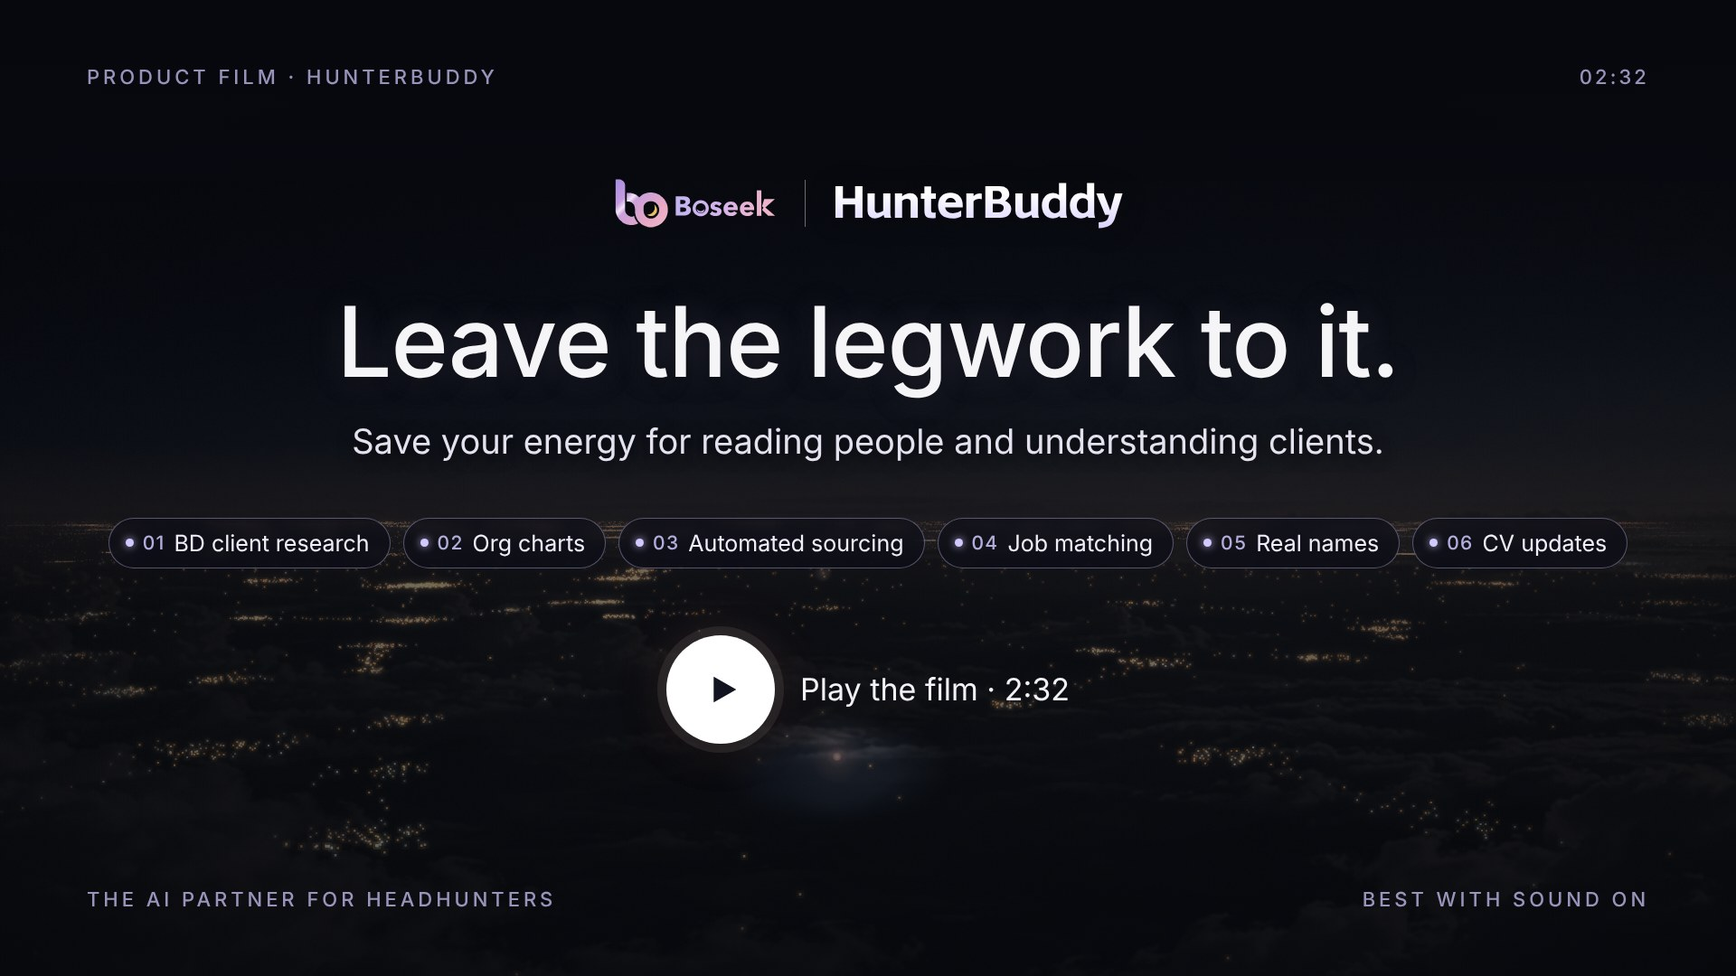
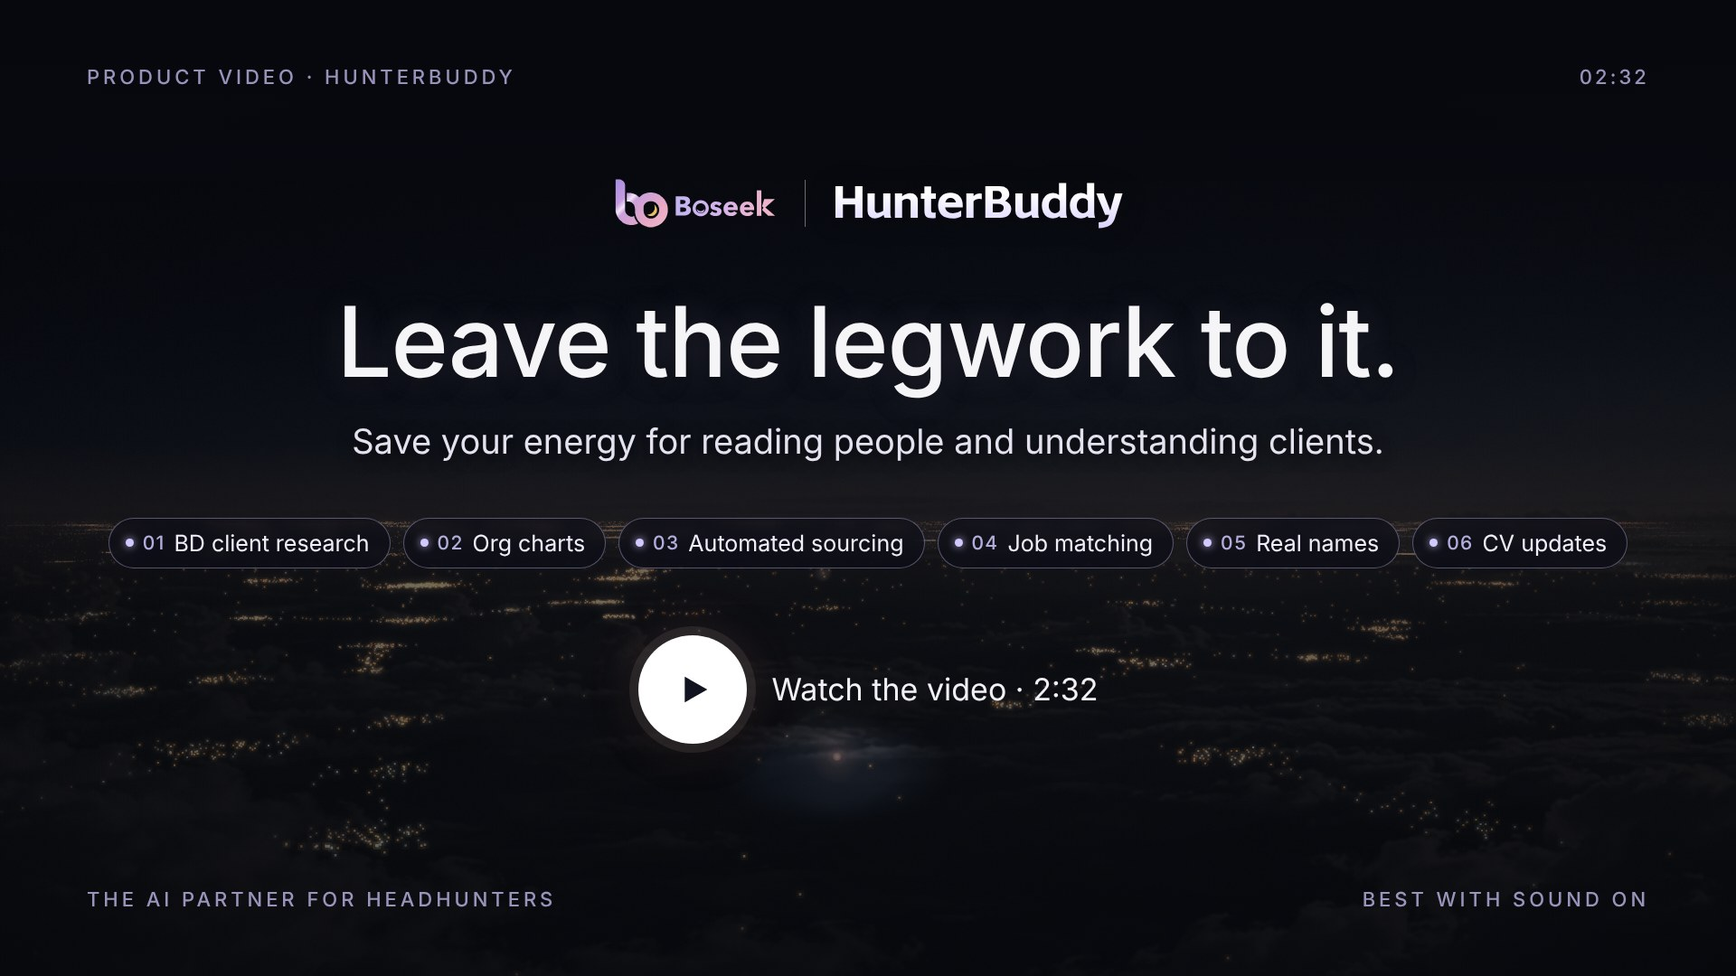
英文“短片”统一译作 video；首页标题跟随新文案；英文步骤标签 Assess 改为 Know；短片读屏标签时长更正
- 英文：导航、页脚、读屏标签、视频结构化数据、两篇文章里的 product film 改为 product video；英文封面重拍
  （PRODUCT VIDEO · HUNTERBUDDY、Watch the video · 2:32），film-poster-en.jpg ?v=6
- 浏览器标签页标题：中文“猎头 AI 助手：人岗匹配、人才寻访、组织架构梳理”，英文
  “AI assistant for headhunters: matching, sourcing, org charts”（og:title 同步）
- 六件事的步骤标签：英文 Find · Know · Keep（不再用 Assess：它不评判人）
- redesign.js：播放按钮读屏标签的时长 2 分 22 秒改为 2 分 32 秒（?v=23）；术语表补充

Claude-Session: https://claude.ai/code/session_01NjZfRSbJ5dBR6i78M69BFX

Changed region(s): [[0.3438, 0.6417, 0.625, 0.7639], [0.125, 0.0611, 0.2812, 0.0917]]

diff --git a/public/landing-redesign/en/index.html b/public/landing-redesign/en/index.html
@@ -6,7 +6,7 @@
     <meta name="theme-color" content="#0f1011" />
     <!-- Redesign draft: preview only, not indexed -->
     <meta name="robots" content="noindex" />
-    <title>HunterBuddy · AI assistant for headhunters: org charts and sourcing | Boseek</title>
+    <title>HunterBuddy · AI assistant for headhunters: matching, sourcing, org charts | Boseek</title>
     <meta
       name="description"
       content="HunterBuddy by Boseek is an AI assistant for independent headhunters and senior search consultants. It helps with job matching, sourcing, identity checks, BD client research, CV database updates and org charts, so you can focus on people and clients."
@@ -18,7 +18,7 @@
     <link rel="alternate" hreflang="x-default" href="https://www.boseekai.com/" />
     <meta property="og:type" content="website" />
     <meta property="og:site_name" content="Boseek" />
-    <meta property="og:title" content="HunterBuddy · AI assistant for headhunters: org charts and sourcing" />
+    <meta property="og:title" content="HunterBuddy · AI assistant for headhunters: matching, sourcing, org charts" />
     <meta property="og:description" content="HunterBuddy by Boseek is an AI assistant for independent headhunters and senior search consultants. It helps with job matching, sourcing, identity checks, BD client research, CV database updates and org charts, so you can focus on people and clients." />
     <meta property="og:url" content="https://www.boseekai.com/en/" />
     <meta property="og:image" content="https://www.boseekai.com/assets/film-poster-en.jpg" />
@@ -79,7 +79,7 @@
             "@type": "WebPage",
             "@id": "https://www.boseekai.com/en/#webpage",
             "url": "https://www.boseekai.com/en/",
-            "name": "HunterBuddy · AI assistant for headhunters: org charts and sourcing | Boseek",
+            "name": "HunterBuddy · AI assistant for headhunters: matching, sourcing, org charts | Boseek",
             "description": "HunterBuddy by Boseek is an AI assistant for independent headhunters and senior search consultants. It helps with job matching, sourcing, identity checks, BD client research, CV database updates and org charts, so you can focus on people and clients.",
             "inLanguage": "en",
             "isPartOf": {
@@ -122,7 +122,7 @@
           {
             "@type": "VideoObject",
             "@id": "https://www.boseekai.com/en/#film",
-            "name": "HunterBuddy product film",
+            "name": "HunterBuddy product video",
             "description": "From one role in a sea of people, follow HunterBuddy through six jobs: BD client research, org mapping, automated sourcing, job matching, finding the real name, and keeping CVs current.",
             "thumbnailUrl": "https://www.boseekai.com/assets/film-poster-en.jpg",
             "contentUrl": "https://www.boseekai.com/assets/hunterbuddy-film-en.mp4",
@@ -231,7 +231,7 @@
     <script defer src="../../landing/vendor/libphonenumber-max.js?v=20261021"></script>
     <script defer src="../../landing/trial-form.js?v=20261022-bilingual-a"></script>
     <script defer src="../vendor/lenis-1.3.4.min.js"></script>
-    <script defer src="../redesign.js?v=22"></script>
+    <script defer src="../redesign.js?v=23"></script>
   </head>
   <body class="n-page">
     <a class="n-skip" href="#main">Skip to content</a>
@@ -242,7 +242,7 @@
           <img src="../../landing-origin/assets/boseek-b5-en.svg" alt="Boseek" width="150" height="48" />
         </a>
         <nav class="n-nav" id="n-nav" aria-label="Main navigation">
-          <a href="#film">Product film</a>
+          <a href="#film">Product video</a>
           <a href="#capabilities">What it does</a>
           <a href="#belief">Boundaries</a>
           <a href="#industries">Sectors</a>
@@ -300,9 +300,9 @@
               controls
               preload="none"
               playsinline
-              poster="../assets/film-poster-en.jpg?v=5"
+              poster="../assets/film-poster-en.jpg?v=6"
               src="../assets/hunterbuddy-film-en.mp4?v=5"
-              aria-label="HunterBuddy product film"
+              aria-label="HunterBuddy product video"
             ></video>
           </figure>
         </div>
@@ -419,7 +419,7 @@
                 </div>
               </div>
               <div class="n-step-text">
-                <p class="n-step-meta"><i>Assess</i><span>03 / 06</span></p>
+                <p class="n-step-meta"><i>Know</i><span>03 / 06</span></p>
                 <p class="n-pain">All you have is a workplace alias or a user ID. Working out who the person really is can take hours of guesswork.</p>
                 <h3 id="n-step-identity">Find the real name behind an alias</h3>
                 <p>Even with only an alias, a pen name or a nickname, HunterBuddy cross-checks several sources, rules out namesakes and establishes the candidate’s real name and identity. It then follows their career and connections to related candidates and suggests a suitable way to reach them. Anything it isn’t sure of is flagged for you to confirm.</p>
@@ -446,7 +446,7 @@
                 </div>
               </div>
               <div class="n-step-text">
-                <p class="n-step-meta"><i>Assess</i><span>04 / 06</span></p>
+                <p class="n-step-meta"><i>Know</i><span>04 / 06</span></p>
                 <p class="n-pain">Some clients have plenty of openings, and only once you follow up do you find that the need, the budget or the decision chain isn’t ready.</p>
                 <h3 id="n-step-bd">BD client research: know before you go</h3>
                 <p>HunterBuddy pulls together the industry outlook, funding news, the founding team, and hiring and business signals, helping you judge the real need, the ability to pay and the risk in working with them. It then lays out the decision chain and priorities to inform your next approach. Fewer wasted trips, and more energy for the opportunities that deserve it.</p>
@@ -616,7 +616,7 @@
             <div>
               <h2>Product</h2>
               <ul>
-                <li><a href="#film">Product film</a></li>
+                <li><a href="#film">Product video</a></li>
                 <li><a href="#capabilities">What it does</a></li>
                 <li><a href="#belief">Boundaries</a></li>
                 <li><a href="#industries">Sectors</a></li>

diff --git a/public/landing-redesign/index.html b/public/landing-redesign/index.html
@@ -6,7 +6,7 @@
     <meta name="theme-color" content="#0f1011" />
     <!-- 改版草稿：只用于预览，不收录 -->
     <meta name="robots" content="noindex" />
-    <title>HunterBuddy · 猎头 AI 助手，梳理组织架构、做人才寻访｜铂寻 Boseek</title>
+    <title>HunterBuddy · 猎头 AI 助手：人岗匹配、人才寻访、组织架构梳理｜铂寻 Boseek</title>
     <meta
       name="description"
       content="HunterBuddy 是铂寻 Boseek 为独立猎头和资深顾问打造的猎头 AI 助手。人岗匹配、自动寻访、定位真实姓名、BD 客户研判、简历库更新、组织架构梳理，费时间的事交给它，你把心力留给识人和读懂客户。"
@@ -18,7 +18,7 @@
     <link rel="alternate" hreflang="x-default" href="https://www.boseekai.com/" />
     <meta property="og:type" content="website" />
     <meta property="og:site_name" content="铂寻 Boseek" />
-    <meta property="og:title" content="HunterBuddy · 猎头 AI 助手，梳理组织架构、做人才寻访" />
+    <meta property="og:title" content="HunterBuddy · 猎头 AI 助手：人岗匹配、人才寻访、组织架构梳理" />
     <meta property="og:description" content="HunterBuddy 是铂寻 Boseek 为独立猎头和资深顾问打造的猎头 AI 助手。人岗匹配、自动寻访、定位真实姓名、BD 客户研判、简历库更新、组织架构梳理，费时间的事交给它，你把心力留给识人和读懂客户。" />
     <meta property="og:url" content="https://www.boseekai.com/" />
     <meta property="og:image" content="https://www.boseekai.com/assets/film-poster.jpg" />
@@ -81,7 +81,7 @@
             "@type": "WebPage",
             "@id": "https://www.boseekai.com/#webpage",
             "url": "https://www.boseekai.com/",
-            "name": "HunterBuddy · 猎头 AI 助手，梳理组织架构、做人才寻访｜铂寻 Boseek",
+            "name": "HunterBuddy · 猎头 AI 助手：人岗匹配、人才寻访、组织架构梳理｜铂寻 Boseek",
             "description": "HunterBuddy 是铂寻 Boseek 为独立猎头和资深顾问打造的猎头 AI 助手。人岗匹配、自动寻访、定位真实姓名、BD 客户研判、简历库更新、组织架构梳理，费时间的事交给它，你把心力留给识人和读懂客户。",
             "inLanguage": "zh-CN",
             "isPartOf": {
@@ -231,7 +231,7 @@
     <script defer src="../landing/vendor/libphonenumber-max.js?v=20261021"></script>
     <script defer src="../landing/trial-form.js?v=20261022-bilingual-a"></script>
     <script defer src="vendor/lenis-1.3.4.min.js"></script>
-    <script defer src="redesign.js?v=22"></script>
+    <script defer src="redesign.js?v=23"></script>
   </head>
   <body class="n-page">
     <a class="n-skip" href="#main">跳到正文</a>
@@ -300,7 +300,7 @@
               controls
               preload="none"
               playsinline
-              poster="assets/film-poster.jpg?v=8"
+              poster="assets/film-poster.jpg?v=9"
               src="assets/hunterbuddy-film.mp4?v=8"
               aria-label="HunterBuddy 产品短片"
             ></video>

diff --git a/public/landing-redesign/en/use-cases/talent-pool/index.html b/public/landing-redesign/en/use-cases/talent-pool/index.html
@@ -172,7 +172,7 @@
           <img src="../../../../landing-origin/assets/boseek-b5-en.svg" alt="Boseek" width="150" height="48" />
         </a>
         <nav class="n-nav" id="n-nav" aria-label="Main navigation">
-          <a href="../../#film">Product film</a>
+          <a href="../../#film">Product video</a>
           <a href="../../#capabilities">What it does</a>
           <a href="../../#belief">Boundaries</a>
           <a href="../../#industries">Sectors</a>
@@ -311,7 +311,7 @@
           <div class="n-wrap"><div class="s-col">
             <p class="s-label">05</p>
             <h2 id="s5-t">How can HunterBuddy help manage your CV database?</h2>
-            <p class="s-p">HunterBuddy is an AI assistant for headhunters, built by Boseek for independent headhunters and senior search consultants, and keeping your CV database current is one of the things it does. To show how, here’s the Xingchuan Robotics story from our homepage and product film, in which Yue Lin is the candidate.</p>
+            <p class="s-p">HunterBuddy is an AI assistant for headhunters, built by Boseek for independent headhunters and senior search consultants, and keeping your CV database current is one of the things it does. To show how, here’s the Xingchuan Robotics story from our homepage and product video, in which Yue Lin is the candidate.</p>
             <ul class="s-list">
               <li>Upload CVs one at a time or in bulk. Everything you bring in goes through identity checks and is de-duplicated and merged, and can also be matched against all your live searches.</li>
               <li>When one person is scattered across different sources, it checks before merging. Yue Lin, for example, has one record each in your CV database, on a team page and in a paper, and they end up as one person.</li>
@@ -414,7 +414,7 @@
             <div>
               <h2>Product</h2>
               <ul>
-                <li><a href="../../#film">Product film</a></li>
+                <li><a href="../../#film">Product video</a></li>
                 <li><a href="../../#capabilities">What it does</a></li>
                 <li><a href="../../#belief">Boundaries</a></li>
                 <li><a href="../../#industries">Sectors</a></li>

diff --git a/public/landing-redesign/en/use-cases/org-chart/index.html b/public/landing-redesign/en/use-cases/org-chart/index.html
@@ -172,7 +172,7 @@
           <img src="../../../../landing-origin/assets/boseek-b5-en.svg" alt="Boseek" width="150" height="48" />
         </a>
         <nav class="n-nav" id="n-nav" aria-label="Main navigation">
-          <a href="../../#film">Product film</a>
+          <a href="../../#film">Product video</a>
           <a href="../../#capabilities">What it does</a>
           <a href="../../#belief">Boundaries</a>
           <a href="../../#industries">Sectors</a>
@@ -322,7 +322,7 @@
           <div class="n-wrap"><div class="s-col">
             <p class="s-label">05</p>
             <h2 id="s5-t">How can HunterBuddy help you map a target company with AI?</h2>
-            <p class="s-p">HunterBuddy is an AI assistant for headhunters, built by Boseek for independent headhunters and senior search consultants. Here is the example from our homepage and product film: say you want to map Xingchuan Robotics alongside two peer companies, Tuojie Robotics and Qiongding AI.</p>
+            <p class="s-p">HunterBuddy is an AI assistant for headhunters, built by Boseek for independent headhunters and senior search consultants. Here is the example from our homepage and product video: say you want to map Xingchuan Robotics alongside two peer companies, Tuojie Robotics and Qiongding AI.</p>
             <ul class="s-list">
               <li>Tell it which companies and teams to look at. It finds departments and reporting lines in public information, puts people in the right positions and notes where each piece of information came from.</li>
               <li>When a lead comes from a paper’s authors or a patent’s inventors, it is flagged as still needing an identity and employment check, and co-authoring a paper is not taken as a reporting line.</li>
@@ -418,7 +418,7 @@
             <div>
               <h2>Product</h2>
               <ul>
-                <li><a href="../../#film">Product film</a></li>
+                <li><a href="../../#film">Product video</a></li>
                 <li><a href="../../#capabilities">What it does</a></li>
                 <li><a href="../../#belief">Boundaries</a></li>
                 <li><a href="../../#industries">Sectors</a></li>

diff --git a/public/landing-redesign/en/use-cases/ai-assistant-for-headhunters/index.html b/public/landing-redesign/en/use-cases/ai-assistant-for-headhunters/index.html
@@ -172,7 +172,7 @@
           <img src="../../../../landing-origin/assets/boseek-b5-en.svg" alt="Boseek" width="150" height="48" />
         </a>
         <nav class="n-nav" id="n-nav" aria-label="Main navigation">
-          <a href="../../#film">Product film</a>
+          <a href="../../#film">Product video</a>
           <a href="../../#capabilities">What it does</a>
           <a href="../../#belief">Boundaries</a>
           <a href="../../#industries">Sectors</a>
@@ -401,7 +401,7 @@
             <div>
               <h2>Product</h2>
               <ul>
-                <li><a href="../../#film">Product film</a></li>
+                <li><a href="../../#film">Product video</a></li>
                 <li><a href="../../#capabilities">What it does</a></li>
                 <li><a href="../../#belief">Boundaries</a></li>
                 <li><a href="../../#industries">Sectors</a></li>

diff --git a/public/landing-redesign/en/use-cases/ai-tools-compared/index.html b/public/landing-redesign/en/use-cases/ai-tools-compared/index.html
@@ -172,7 +172,7 @@
           <img src="../../../../landing-origin/assets/boseek-b5-en.svg" alt="Boseek" width="150" height="48" />
         </a>
         <nav class="n-nav" id="n-nav" aria-label="Main navigation">
-          <a href="../../#film">Product film</a>
+          <a href="../../#film">Product video</a>
           <a href="../../#capabilities">What it does</a>
           <a href="../../#belief">Boundaries</a>
           <a href="../../#industries">Sectors</a>
@@ -391,7 +391,7 @@
             <div>
               <h2>Product</h2>
               <ul>
-                <li><a href="../../#film">Product film</a></li>
+                <li><a href="../../#film">Product video</a></li>
                 <li><a href="../../#capabilities">What it does</a></li>
                 <li><a href="../../#belief">Boundaries</a></li>
                 <li><a href="../../#industries">Sectors</a></li>

diff --git a/public/landing-redesign/en/use-cases/business-development/index.html b/public/landing-redesign/en/use-cases/business-development/index.html
@@ -172,7 +172,7 @@
           <img src="../../../../landing-origin/assets/boseek-b5-en.svg" alt="Boseek" width="150" height="48" />
         </a>
         <nav class="n-nav" id="n-nav" aria-label="Main navigation">
-          <a href="../../#film">Product film</a>
+          <a href="../../#film">Product video</a>
           <a href="../../#capabilities">What it does</a>
           <a href="../../#belief">Boundaries</a>
           <a href="../../#industries">Sectors</a>
@@ -399,7 +399,7 @@
             <div>
               <h2>Product</h2>
               <ul>
-                <li><a href="../../#film">Product film</a></li>
+                <li><a href="../../#film">Product video</a></li>
                 <li><a href="../../#capabilities">What it does</a></li>
                 <li><a href="../../#belief">Boundaries</a></li>
                 <li><a href="../../#industries">Sectors</a></li>

diff --git a/public/landing-redesign/en/use-cases/finding-candidates/index.html b/public/landing-redesign/en/use-cases/finding-candidates/index.html
@@ -172,7 +172,7 @@
           <img src="../../../../landing-origin/assets/boseek-b5-en.svg" alt="Boseek" width="150" height="48" />
         </a>
         <nav class="n-nav" id="n-nav" aria-label="Main navigation">
-          <a href="../../#film">Product film</a>
+          <a href="../../#film">Product video</a>
           <a href="../../#capabilities">What it does</a>
           <a href="../../#belief">Boundaries</a>
           <a href="../../#industries">Sectors</a>
@@ -439,7 +439,7 @@
             <div>
               <h2>Product</h2>
               <ul>
-                <li><a href="../../#film">Product film</a></li>
+                <li><a href="../../#film">Product video</a></li>
                 <li><a href="../../#capabilities">What it does</a></li>
                 <li><a href="../../#belief">Boundaries</a></li>
                 <li><a href="../../#industries">Sectors</a></li>

diff --git a/public/landing-redesign/en/use-cases/headhunter-consultant/index.html b/public/landing-redesign/en/use-cases/headhunter-consultant/index.html
@@ -172,7 +172,7 @@
           <img src="../../../../landing-origin/assets/boseek-b5-en.svg" alt="Boseek" width="150" height="48" />
         </a>
         <nav class="n-nav" id="n-nav" aria-label="Main navigation">
-          <a href="../../#film">Product film</a>
+          <a href="../../#film">Product video</a>
           <a href="../../#capabilities">What it does</a>
           <a href="../../#belief">Boundaries</a>
           <a href="../../#industries">Sectors</a>
@@ -441,7 +441,7 @@
             <div>
               <h2>Product</h2>
               <ul>
-                <li><a href="../../#film">Product film</a></li>
+                <li><a href="../../#film">Product video</a></li>
                 <li><a href="../../#capabilities">What it does</a></li>
                 <li><a href="../../#belief">Boundaries</a></li>
                 <li><a href="../../#industries">Sectors</a></li>

diff --git a/public/landing-redesign/en/use-cases/job-matching/index.html b/public/landing-redesign/en/use-cases/job-matching/index.html
@@ -172,7 +172,7 @@
           <img src="../../../../landing-origin/assets/boseek-b5-en.svg" alt="Boseek" width="150" height="48" />
         </a>
         <nav class="n-nav" id="n-nav" aria-label="Main navigation">
-          <a href="../../#film">Product film</a>
+          <a href="../../#film">Product video</a>
           <a href="../../#capabilities">What it does</a>
           <a href="../../#belief">Boundaries</a>
           <a href="../../#industries">Sectors</a>
@@ -424,7 +424,7 @@
             <div>
               <h2>Product</h2>
               <ul>
-                <li><a href="../../#film">Product film</a></li>
+                <li><a href="../../#film">Product video</a></li>
                 <li><a href="../../#capabilities">What it does</a></li>
                 <li><a href="../../#belief">Boundaries</a></li>
                 <li><a href="../../#industries">Sectors</a></li>

diff --git a/public/landing-redesign/en/use-cases/same-name-candidates/index.html b/public/landing-redesign/en/use-cases/same-name-candidates/index.html
@@ -172,7 +172,7 @@
           <img src="../../../../landing-origin/assets/boseek-b5-en.svg" alt="Boseek" width="150" height="48" />
         </a>
         <nav class="n-nav" id="n-nav" aria-label="Main navigation">
-          <a href="../../#film">Product film</a>
+          <a href="../../#film">Product video</a>
           <a href="../../#capabilities">What it does</a>
           <a href="../../#belief">Boundaries</a>
           <a href="../../#industries">Sectors</a>
@@ -421,7 +421,7 @@
             <div>
               <h2>Product</h2>
               <ul>
-                <li><a href="../../#film">Product film</a></li>
+                <li><a href="../../#film">Product video</a></li>
                 <li><a href="../../#capabilities">What it does</a></li>
                 <li><a href="../../#belief">Boundaries</a></li>
                 <li><a href="../../#industries">Sectors</a></li>

diff --git a/public/landing-redesign/en/use-cases/index.html b/public/landing-redesign/en/use-cases/index.html
@@ -143,7 +143,7 @@
           <img src="../../../landing-origin/assets/boseek-b5-en.svg" alt="Boseek" width="150" height="48" />
         </a>
         <nav class="n-nav" id="n-nav" aria-label="Main navigation">
-          <a href="../#film">Product film</a>
+          <a href="../#film">Product video</a>
           <a href="../#capabilities">What it does</a>
           <a href="../#belief">Boundaries</a>
           <a href="../#industries">Sectors</a>
@@ -276,7 +276,7 @@
             <div>
               <h2>Product</h2>
               <ul>
-                <li><a href="../#film">Product film</a></li>
+                <li><a href="../#film">Product video</a></li>
                 <li><a href="../#capabilities">What it does</a></li>
                 <li><a href="../#belief">Boundaries</a></li>
                 <li><a href="../#industries">Sectors</a></li>
